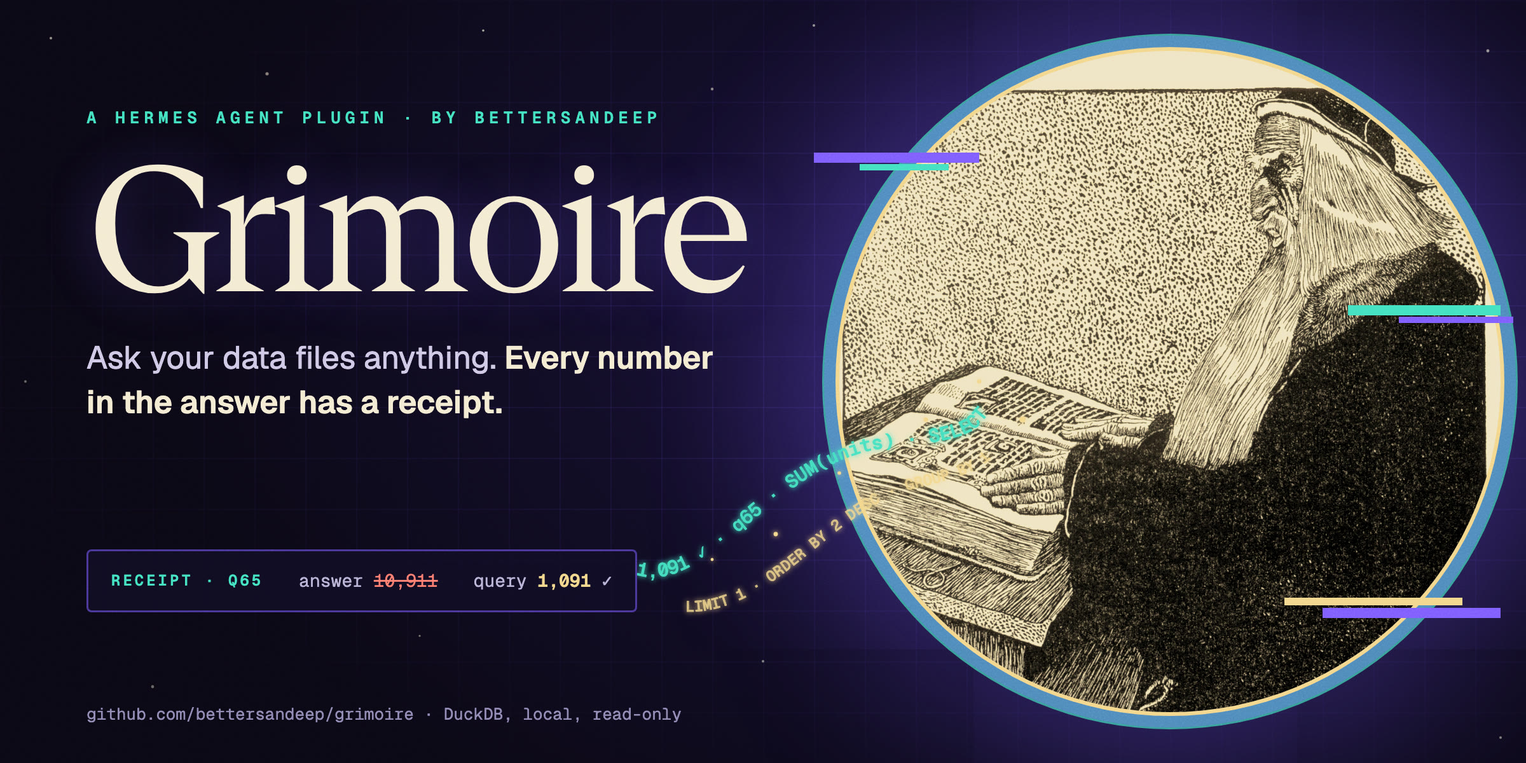
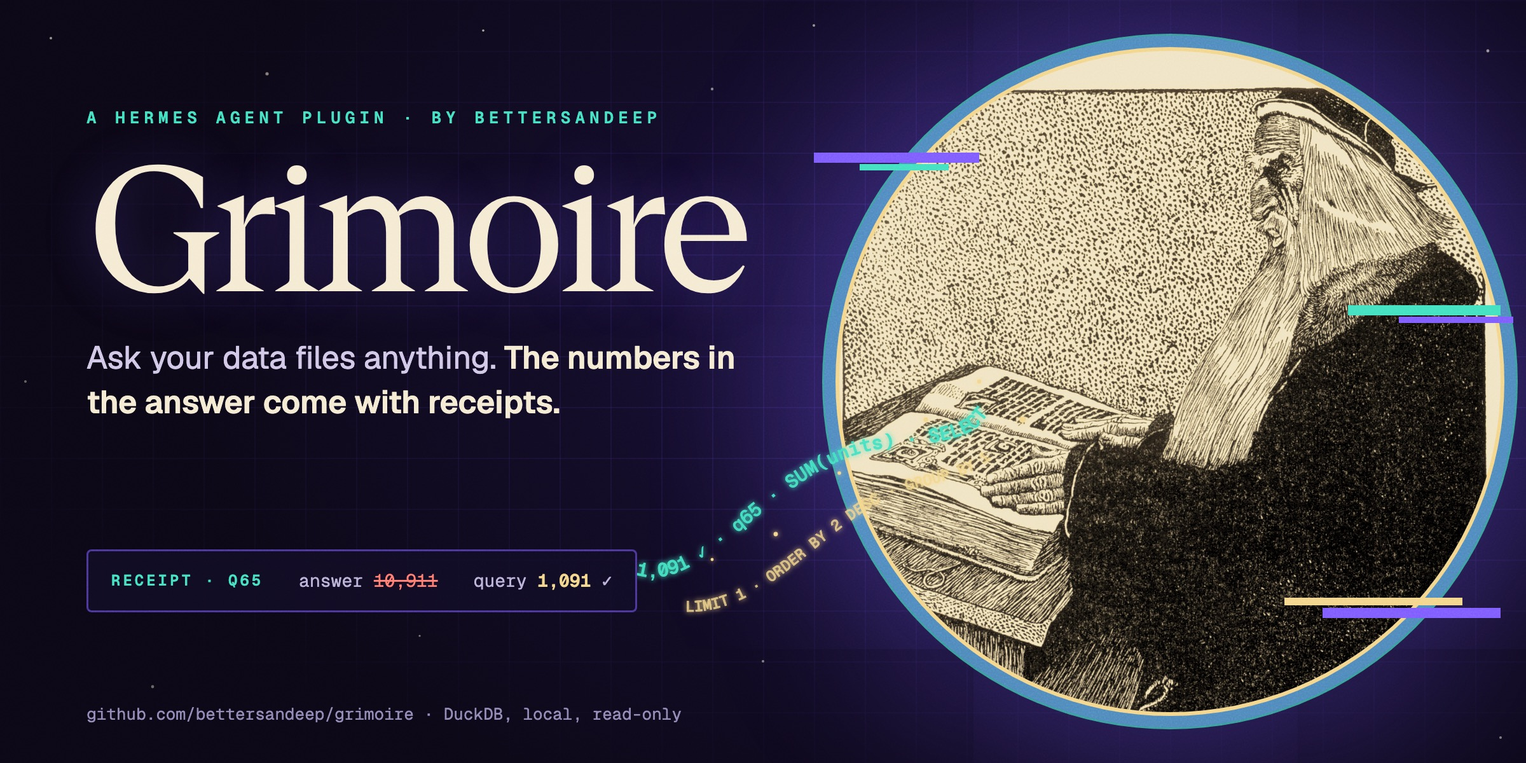
Check years and round factors instead of hiding them; claim only what the check does (#101)
A year or a round factor counts when a result holds it; otherwise the footer names it under Not checked.
check_detail returns one Checked record; footer takes it. The check() wrapper and the power-of-ten
scan are gone. Written dates like 11 November 2026 and May 2026 keep their year out of the claims.

diff --git a/desktop/plugin.js b/desktop/plugin.js
@@ -104,7 +104,7 @@ function Header({ summary, act }) {
   return jsxs('header', { className: 'gr-top', children: [
     jsxs('div', { className: 'gr-brand', children: [
       jsx('span', { className: 'gr-mark', children: jsx(Mark, {}) }),
-      jsxs('div', { children: [jsx('h1', { children: 'Data' }), jsx('p', { children: `Grimoire ${s.version || ''} · every number has a receipt` })] })
+      jsxs('div', { children: [jsx('h1', { children: 'Data' }), jsx('p', { children: `Grimoire ${s.version || ''} · numbers with receipts` })] })
     ] }),
     jsxs('div', { className: 'gr-toggles', children: [
       jsx(Toggle, { label: 'Learning mode', checked: s.learn, hint: 'After data answers: how the answer was made, and a better question',
@@ -138,8 +138,8 @@ function About({ show, act }) {
   if (!show) return null
   return jsxs('section', { className: 'gr-about', 'aria-label': 'What Grimoire does', children: [
     jsxs('div', { className: 'gr-about-text', children: [
-      jsx('b', { children: 'Ask questions about your data files, and check every number' }),
-      jsx('p', { children: 'Name a CSV, JSON, Parquet or SQLite file in any chat. Grimoire answers with a real SQL query and checks each number in the reply against it. It reads your files where they are and never changes them.' }),
+      jsx('b', { children: 'Ask questions about your data files, and check the numbers' }),
+      jsx('p', { children: 'Name a CSV, JSON, Parquet or SQLite file in any chat. Grimoire answers with a real SQL query and flags any number in the reply that no query produced. It reads your files where they are and never changes them.' }),
       jsxs('ul', { children: [
         jsxs('li', { children: [jsx('b', { children: 'Files' }), ' are the files you named in chats. Each gets a ', jsx('b', { children: 'Data health' }), ' score: how far you can trust its numbers. Click the score to see why.'] }),
         jsxs('li', { children: [jsx('b', { children: 'Saved queries' }), ' are the answers: chart, table, the SQL, and how each answer was made. Click ', jsx('b', { children: 'New chart' }), ' to make your own.'] }),

diff --git a/assets/src/banner.html b/assets/src/banner.html
@@ -41,7 +41,7 @@ h1{font:600 138px/0.92 "Geist Serif",serif;letter-spacing:-4px;margin:16px 0 20p
 <div class="left">
   <div class="kicker">A HERMES AGENT PLUGIN · BY BETTERSANDEEP</div>
   <h1>Grimoire</h1>
-  <p class="tag">Ask your data files anything. <b>Every number in the answer has a receipt.</b></p>
+  <p class="tag">Ask your data files anything. <b>The numbers in the answer come with receipts.</b></p>
 </div>
 <div class="slip"><span class="h">RECEIPT · Q65</span><span>answer <span class="bad">10,911</span></span><span>query <span class="ok">1,091</span> ✓</span></div>
 <div class="foot">github.com/bettersandeep/grimoire · DuckDB, local, read-only</div>

diff --git a/verify.py b/verify.py
@@ -8,15 +8,17 @@ Pure functions only; no Hermes or DuckDB imports.
 import bisect
 import math
 import re
+from typing import NamedTuple
 
 _CODE = re.compile(r"```.*?```|`[^`\n]*`", re.S)
 _CITE = re.compile(r"\[\s*q\d+(?:\s*,\s*q\d+)*\s*\]|\bq\d+\b", re.I)
 _DATE = re.compile(r"\b\d{4}-\d{2}(?:-\d{2}(?:[T ]\d{2}:\d{2}(?::\d{2})?)?)?\b|\b\d{1,2}:\d{2}(?::\d{2})?\b")
-# Written dates: "November 11, 2026", "Nov. 3", "11 November 2026". The day is not a claim. Month first needs a year
+# Written dates: "November 11, 2026", "Nov. 3", "11 November 2026", "May 2026". The day and year are not claims. Month first needs a year
 # or punctuation after the day, so "May 12 orders" is still read; month names are capitalised, so "may 12" is too.
 _MONTH = r"(?:Jan(?:uary)?|Feb(?:ruary)?|Mar(?:ch)?|Apr(?:il)?|May|June?|July?|Aug(?:ust)?|Sep(?:t(?:ember)?)?|Oct(?:ober)?|Nov(?:ember)?|Dec(?:ember)?)\.?"
 _DAY = r"(?:[1-9]|[12]\d|3[01])(?:st|nd|rd|th)?"
-_WRITTEN_DATE = re.compile(rf"\b{_MONTH}\s+{_DAY}(?:,?\s+(?:19|20)\d\d\b|(?=[.,;:)!?]|\s*$))|\b{_DAY}\s+{_MONTH}(?![a-z])")
+_WRITTEN_DATE = re.compile(rf"\b{_MONTH}\s+{_DAY}(?:,?\s+(?:19|20)\d\d\b|(?=[.,;:)!?]|\s*$))"
+                           rf"|\b{_DAY}\s+{_MONTH}(?![a-z])(?:,?\s+(?:19|20)\d\d\b)?|\b{_MONTH}\s+(?:19|20)\d\d\b")
 _LIST_MARK = re.compile(r"(?m)^(\s*)\d+[.)](?=\s)")
 _NUM = re.compile(r"(?<![\w.,])\d{1,3}(?:,\d{2,3})+(?:\.\d+)?|(?<![\w.,])\d+(?:\.\d+)?")
 _SUFFIX = re.compile(
@@ -34,7 +36,8 @@ def _blank(match):
 
 
 def extract(text):
-    """Return the numeric claims in text as dicts: raw, value, tol, percent."""
+    """Return the numeric claims in text as dicts: raw, value, tol, percent, and skip: why the number may not be
+    a claim ("looks like a year", "a round factor"), or None."""
     text = _CODE.sub(_blank, text or "")
     for pattern in (_CITE, _DATE, _WRITTEN_DATE):
         text = pattern.sub(_blank, text)
@@ -49,7 +52,7 @@ def extract(text):
         if clock and re.fullmatch(r"\d{1,2}", core) and 1 <= int(core) <= 12:
             hour = int(core) % 12 + (12 if clock.group(1).lower().startswith("p") else 0)
             claims.append({"raw": core + clock.group(0), "value": float(hour), "tol": 0.5, "percent": False,
-                           "at": m.start(), "end": m.end() + clock.end()})
+                           "skip": None, "at": m.start(), "end": m.end() + clock.end()})
             continue  # "6 PM" is the hour 18
         if not suffix and re.match(r"[A-Za-z_\d]", after[:1]):
             continue  # part of a word or id, like 4xx, 2nd, x86
@@ -63,19 +66,16 @@ def extract(text):
             continue  # 309 or more digits: not a claim, and it would overflow later checks
         decimals = len(core.split(".", 1)[1]) if "." in core else 0
         plain_int = decimals == 0 and "," not in core and not unit
-        if plain_int and 1900 <= number <= 2100:
-            continue  # a year
         whole = number == int(number) and "," not in core and not unit
-        if whole and number >= 10 and str(int(number)).strip("0") == "1":
-            # ponytail: powers of ten (100, 1000) are usually unit factors ("÷ 100"); a real
-            # count of exactly 100 is skipped too. Tighten with context if that ever matters.
-            continue
+        skip = ("looks like a year" if plain_int and 1900 <= number <= 2100 else
+                "a round factor" if whole and number >= 10 and str(int(number)).strip("0") == "1" else None)
         mult = _MULT.get(unit, 1.0)
         claims.append({
             "raw": (core + (suffix.group(0) if suffix else "")).strip(),
             "value": number * mult,
             "tol": 0.5 * 10 ** -decimals * mult,
             "percent": unit in ("%", "percent"),
+            "skip": skip,
             # "$29.05M" also matches 29.05 as written: SQL often computes in millions (revenue_musd)
             # not for small whole numbers: "$15M" must not match a count of 15
             "written": number if mult != 1.0 and not (number < 100 and number == int(number)) else None,
@@ -134,6 +134,8 @@ def rises_on_negatives(text, signed):
     text = text or ""
     found = []
     for claim in extract(text):
+        if claim["skip"]:
+            continue  # a year or a round factor is not a size that can rise
         before = text[max(0, claim["at"] - 60):claim["at"]]
         rise = _RISE_BEFORE.search(before)
         if rise and rise.group(1).lower() == "up" and not _UP_LEAD.search(before[:rise.start()]):
@@ -200,16 +202,20 @@ def _pairs(values, ratios):
     return out
 
 
-def check(text, values, ignore=(), totals=()):
-    """(sourced, derived, unsourced) lists of raw strings; see check_detail."""
-    return check_detail(text, values, ignore, totals)[:3]
+class Checked(NamedTuple):
+    """The claims of a reply, as raw strings, by how they trace."""
+    sourced: list    # a tool result holds the number
+    derived: list    # simple arithmetic on sourced numbers gives it
+    unsourced: list  # nothing gives it
+    loose: list      # of derived: only two result values the reply does not show give it, so it can be chance
+    unchecked: list  # a year or a round factor that no result holds, with the reason: "2024 (looks like a year)"
 
 
 def check_detail(text, values, ignore=(), totals=()):
-    """Split the claims in text into (sourced, derived, unsourced, loose) lists of raw strings.
-    loose: derived claims that only match by combining two result values the reply does not show.
-    With a few hundred result values there are about 270k such combinations, so an invented number
-    can match by chance; the verdict then asks the reader to check them.
+    """Sort the claims in text into a Checked. loose: with a few hundred result values there are about
+    270k pairs, so an invented number can match by chance; the verdict then asks the reader to check them.
+    A year or a round factor counts only when a result holds it: "÷ 100" or "in 2024" may not be a claim,
+    so arithmetic that happens to give it proves nothing. It is named as not checked, never flagged.
 
     values: numbers from tool results. ignore: raw strings to skip (numbers the user typed).
     totals: column totals of cited results. A claim is "derived" when simple arithmetic on
@@ -224,11 +230,7 @@ def check_detail(text, values, ignore=(), totals=()):
         ok = _matches(pool, claim["value"], claim["tol"], claim["percent"]) or (
             claim.get("written") is not None and _near(pool, claim["written"], claim["written_tol"]))
         (sourced if ok else rest).append(claim)
-    shown = {c["value"] for c in claims if c in sourced}
-    # powers of ten are skipped as claims, but "964 of 1000 rows" still uses 1000 as a sourced number
-    shown |= {float(m) for m in re.findall(r"(?<![\w.,])10+(?![\w,]|\.\d)", _CODE.sub(_blank, text or ""))
-              if _near(pool, float(m), 0.5)}
-    shown = sorted(shown)
+    shown = sorted({c["value"] for c in claims if c in sourced})
     sums = sorted(_pairs(shown, ratios=False))
     # ponytail: pairs of pool values only while the pool is small (O(n^2)); cited results are usually small.
     strong = set(shown) | {abs(t) for t in totals}
@@ -238,8 +240,11 @@ def check_detail(text, values, ignore=(), totals=()):
         units |= {v * f for v in pool} | {v / f for v in pool}
     wide, wide_pct = sorted(other | units | _triples(shown)), sorted(other)
     hidden = sorted(_pairs(sorted(strong | set(pool)), ratios=True)) if len(pool) <= MAX_PAIR_POOL else []
-    derived, unsourced, loose = [], [], []
+    derived, unsourced, loose, unchecked = [], [], [], []
     for claim in rest:
+        if claim["skip"]:
+            unchecked.append(f"{claim['raw']} ({claim['skip']})")
+            continue
         # ponytail: a small whole number (under 100) is easy to hit by chance, so it may only be a sum or
         # difference of two numbers the reply shows; bigger or decimal numbers may also be a unit change,
         # ratio, share or column total.
@@ -251,23 +256,25 @@ def check_detail(text, values, ignore=(), totals=()):
             ok = True
             loose.append(claim["raw"])
         (derived if ok else unsourced).append(claim["raw"])
-    return [c["raw"] for c in sourced], derived, unsourced, loose
+    return Checked([c["raw"] for c in sourced], derived, unsourced, loose, unchecked)
 
 
-def footer(sourced, unsourced, derived=(), loose=(), uncited=()):
-    """A short plain-text footer, or "" when the reply has no numeric claims.
+def footer(checked, uncited=()):
+    """A short plain-text footer, or "" when the reply has no number to check.
     Not counted as tracing: loose numbers (matched only by combining two hidden result values) and uncited
     numbers (found only in a result of the chat that the reply does not cite)."""
+    sourced, derived, unsourced, loose, unchecked = checked
+    join = lambda items: " · ".join(dict.fromkeys(items))
     derived = [d for d in derived if d not in loose]
     traced = len(sourced) + len(derived)
     total = traced + len(unsourced) + len(loose) + len(uncited)
     if not total:
         return ""
-    how = f" ({len(derived)} by simple arithmetic: {' · '.join(dict.fromkeys(derived))})" if derived else ""
+    how = f" ({len(derived)} by simple arithmetic: {join(derived)})" if derived else ""
+    skipped = f" Not checked: {join(unchecked)}." if unchecked else ""
     if not (unsourced or loose or uncited):
         what = "the number traces" if total == 1 else f"all {total} numbers trace"
-        return f"\n\n---\nGrimoire check: {what} to query results{how}."
+        return f"\n\n---\nGrimoire check: {what} to query results{how}.{skipped}"
     why, which = (("No source query for", unsourced) if unsourced else
                   ("Check how these were worked out", loose) if loose else ("Not from a cited query", uncited))
-    return (f"\n\n---\nGrimoire check: {traced} of {total} numbers trace to query results{how}. "
-            f"{why}: {' · '.join(dict.fromkeys(which))}")
+    return f"\n\n---\nGrimoire check: {traced} of {total} numbers trace to query results{how}. {why}: {join(which)}.{skipped}"

diff --git a/selftest.py b/selftest.py
@@ -39,10 +39,15 @@ REAL_RESULTS = [
 ]
 
 
+def check3(text, values, **kw):
+    """(sourced, derived, unsourced) of a reply: the short form most tests compare."""
+    return tuple(verify.check_detail(text, values, **kw)[:3])
+
+
 def test_verify():
     # precision, suffixes, percent, ignored spans
     vals = [76840174.17, 14.2, 0.383, 2436]
-    chk = lambda text, v=vals, **kw: verify.check(text, v, **kw)
+    chk = lambda text, v=vals, **kw: check3(text, v, **kw)
     assert chk("North made 76.8M") == (["76.8M"], [], [])
     assert chk("North made $76,840,174.17") == (["76,840,174.17"], [], [])
     assert chk("North made ₹76,840,174.17") == (["76,840,174.17"], [], [])  # other currency symbols work too
@@ -50,15 +55,21 @@ def test_verify():
     assert chk("38.3% are empty") == (["38.3%"], [], [])  # matches 0.383
     assert chk("2,436 rows") == (["2,436"], [], [])
     assert chk("2,437 rows") == ([], [], ["2,437"])
-    skipped = ("In 2026 on 2026-01-03 at 10:30, see [q7] and q12, `SELECT 42`, divide by 100 or 100.0, "
-               "April (2026-04), 4xx codes.\n1. first")
+    skipped = ("On 2026-01-03 at 10:30, see [q7] and q12, `SELECT 42`, April (2026-04), 4xx codes.\n1. first")
     assert chk(skipped) == ([], [], []), verify.extract(skipped)
     assert chk("top 3 regions", ignore=["3"]) == ([], [], [])
+    # a year or a round factor is still read: it traces when a result holds it, else it is named as not checked
+    hidden = verify.check_detail("In 2026, divide by 100 or 100.0; 2,436 rows", vals)
+    assert hidden.sourced == ["2,436"] and hidden.unsourced == [], hidden
+    assert hidden.unchecked == ["2026 (looks like a year)", "100 (a round factor)", "100.0 (a round factor)"], hidden
+    assert "Not checked: 2026 (looks like a year) · 100 (a round factor)" in verify.footer(hidden), verify.footer(hidden)
+    assert check3("2024 orders and 100 returns", [2024, 100]) == (["2024", "100"], [], [])
+    assert verify.footer(verify.check_detail("Since 2019.", vals)) == ""  # no number to check: no footer
     # a written date is not a claim: the day of "November 11, 2026" once made a right answer "needs revision"
     for written in ("but today is November 11, 2026.", "on 11 November 2026", "since Nov. 3, 2026", "until Sept 30."):
         assert verify.extract(written) == [], (written, verify.extract(written))
     assert [c["raw"] for c in verify.extract("May 12 orders were late, and may 7 more")] == ["12", "7"]
-    assert verify.footer([], []) == ""
+    assert verify.footer(verify.Checked([], [], [], [], [])) == ""
     # derived numbers: simple arithmetic on shown numbers, unit changes, column totals
     v = [50000, 1996, 189759.34, 72188507.98, 4651666.19]
     assert chk("50,000 rows, 1,996 empty, so 48,004 kept", v) == (["50,000", "1,996"], ["48,004"], [])
@@ -70,13 +81,14 @@ def test_verify():
     assert chk(three, [58904.49, 5893.35, 1965.24, 49079.24]) == (["58,904.49", "5,893.35", "1,965.24"], ["66,763.08"], [])
     assert chk(three.replace("66,763.08", "66,763.99"), [58904.49, 5893.35, 1965.24])[2] == ["66,763.99"]
     assert chk(three.replace("66,763.08", "$66,763.08M"), [58904.49, 5893.35, 1965.24])[1] == ["66,763.08M"]
-    assert chk("964 of 1000 rows have an amount (36 skipped)", [1000, 964]) == (["964"], ["36"], [])
+    assert chk("964 of 1000 rows have an amount (36 skipped)", [1000, 964]) == (["964", "1000"], ["36"], [])
     assert chk("about 2,000 empty", v) == ([], [], ["2,000"])  # rounded: still flagged
     # the real reply: the derived total is now traced by arithmetic; the invented count is still flagged
-    sourced, derived, unsourced = verify.check(REAL_REPLY, verify.numeric_values(REAL_RESULTS))
-    assert unsourced == ["5"], (unsourced, derived)
-    assert derived == ["76,840,174.17"] and len(sourced) == 9, (sourced, derived)
-    assert "1 by simple arithmetic: 76,840,174.17" in verify.footer(sourced, unsourced, derived)
+    real = verify.check_detail(REAL_REPLY, verify.numeric_values(REAL_RESULTS))
+    assert real.unsourced == ["5"], real
+    assert real.derived == ["76,840,174.17"] and len(real.sourced) == 9, real
+    assert "1 by simple arithmetic: 76,840,174.17" in verify.footer(real._replace(loose=[]))
+    assert verify.footer(real).endswith("No source query for: 5. Not checked: 100 (a round factor)."), verify.footer(real)
 
 
 def test_data_quality(tmp, db):
@@ -654,10 +666,10 @@ def test_glob_and_names(tmp, db):
     # numbers inside names and zero-padded codes are not claims; an invented count still is
     text = "6 files: yellow_2024-05.parquet has 3,723,833 rows (2024-01 through 06); 5 rows are odd."
     assert [c["raw"] for c in verify.extract(text)] == ["6", "3,723,833", "5"], verify.extract(text)
-    assert verify.check(text, [3723833, 6])[2] == ["5"]
+    assert check3(text, [3723833, 6])[2] == ["5"]
     # clock times: "6 PM" is the hour 18, so it traces to 18; a wrong hour is still flagged
-    assert verify.check("Hour 18 (6 PM) has 1,456,754 trips", [18, 1456754]) == (["18", "6 PM", "1,456,754"], [], [])
-    assert verify.check("busiest at 7 pm", [18])[2] == ["7 pm"] and verify.check("at 12 a.m.", [0])[0] == ["12 a.m."]
+    assert check3("Hour 18 (6 PM) has 1,456,754 trips", [18, 1456754]) == (["18", "6 PM", "1,456,754"], [], [])
+    assert check3("busiest at 7 pm", [18])[2] == ["7 pm"] and check3("at 12 a.m.", [0])[0] == ["12 a.m."]
 
 
 def test_recipes(tmp, db):
@@ -797,17 +809,17 @@ def test_review_fixes(tmp, db):
                 assert "private app data" in str(exc), exc
     # C-5: numbers that only match two hidden result values get a caveat, not "ready to share"
     random_vals = [round(10 + 37.3 * i % 4990, 2) for i in range(150)] + list(range(1, 51))
-    s_, d_, u_, loose = verify.check_detail("Growth was 23.7%, the share 41.2% and the average 18.4.", random_vals)
+    s_, d_, u_, loose, _ = verify.check_detail("Growth was 23.7%, the share 41.2% and the average 18.4.", random_vals)
     assert not u_ and {"23.7%", "41.2%"} <= set(loose), (s_, d_, u_, loose)  # 18.4 is 1840 / 100 here: a unit change
     assert pkg.audit.review([], None, [], verify.caveats(loose))[0] == "share with caveats"
     # SQL that computes millions (29.05) and a reply that writes "$29.05M": the number traces as written
     musd = verify.numeric_values([["North", 29.05, 15025], ["north ", 3.04, 1609], ["N. Region", 0.94, 493]])
-    s_, d_, u_ = verify.check("North $29.05M, north $3.04M, N. Region $0.94M; $33.03M in all [q1].", musd)
+    s_, d_, u_ = check3("North $29.05M, north $3.04M, N. Region $0.94M; $33.03M in all [q1].", musd)
     assert s_ == ["29.05M", "3.04M", "0.94M"] and d_ == ["33.03M"] and not u_, (s_, d_, u_)  # sum of three shown
     # "$15M" must not match a count of 15; "all numbers trace" never counts loose matches
-    s_, d_, u_ = verify.check("North brought in $15M [q1].", verify.numeric_values([["North", 1200, 15]]))
+    s_, d_, u_ = check3("North brought in $15M [q1].", verify.numeric_values([["North", 1200, 15]]))
     assert u_ == ["15M"], (s_, d_, u_)
-    assert "Check how these were worked out: 23.7%" in verify.footer([], [], ["23.7%"], ["23.7%"])
+    assert "Check how these were worked out: 23.7%" in verify.footer(verify.Checked([], ["23.7%"], [], ["23.7%"], []))
     # a merge that reverses an old one wins
     store.save_merge(db, "rev", "rev", "r", ["North"], "Northern")
     store.save_merge(db, "rev", "rev", "r", ["Northern"], "North")

diff --git a/tools.py b/tools.py
@@ -207,13 +207,14 @@ def _number_check(text, values, file_values, ignore, cited_queries, last_qid, db
     # (they have no id). Every other result of the chat is too wide a net: one list of 200 order ids
     # "sources" any invented count up to 200. Such a number is not counted as traced.
     pool = file_values + cited_values if cited_queries else values
-    sourced, derived, unsourced, loose = verify.check_detail(text, pool, ignore=ignore, totals=totals)
+    checked = verify.check_detail(text, pool, ignore=ignore, totals=totals)
     uncited = []
-    if cited_queries and unsourced:
-        nowhere = verify.check_detail(text, values, ignore=ignore, totals=totals)[2]
-        uncited = [n for n in unsourced if n not in nowhere]
-        unsourced = [n for n in unsourced if n in nowhere]
-    out = verify.footer(sourced, unsourced, derived, loose, uncited)
+    if cited_queries and checked.unsourced:
+        nowhere = verify.check_detail(text, values, ignore=ignore, totals=totals).unsourced
+        uncited = [n for n in checked.unsourced if n not in nowhere]
+        checked = checked._replace(unsourced=[n for n in checked.unsourced if n in nowhere])
+    unsourced, loose = checked.unsourced, checked.loose
+    out = verify.footer(checked, uncited)
     last = store.get_query(db, last_qid) if out and last_qid and not cited_queries else None
     audited = cited_queries or ([last] if last else [])
     if out and (audited or missing):
@@ -223,7 +224,7 @@ def _number_check(text, values, file_values, ignore, cited_queries, last_qid, db
             out = out.rstrip(".") + f". Verdict: {judged}." + "".join("\n" + line for line in lines)
         except Exception:
             pass  # the audit is extra; never lose the number check because of it
-    return out, sourced
+    return out, checked.sourced
 
 
 def _prediction(db, session_id, text, sourced):

diff --git a/README.md b/README.md
@@ -1,15 +1,15 @@
 # Grimoire
 
-![Grimoire, a Hermes Agent plugin by bettersandeep: every number in the answer has a receipt.](assets/banner.jpg)
+![Grimoire, a Hermes Agent plugin by bettersandeep: the numbers in the answer come with receipts.](assets/banner.jpg)
 
 Ask Hermes about your data files, and get answers that are fast, cheap and checked.
-Every number has a receipt.
+Each number comes with a receipt: the query that produced it.
 
 - **Fast on big files:** DuckDB answers with one SQL query, so the model never reads your rows.
   100 million rows in a 5 GB CSV: 12 s instead of 182 s, same question, same model (Claude Sonnet 5.5).
 - **Fewer tokens:** about 35,500 input tokens per answer on Claude Haiku, Sonnet and Opus 5.5, with 2 model calls.
   That is 17% to 56% fewer than plain Hermes in 15 of 18 benchmark tests.
-- **Checked:** after each reply, Grimoire checks every number against the query results and flags the ones with no source.
+- **Checked:** after each reply, Grimoire flags any number that no query produced, and names the numbers it cannot check.
 - **Study your data with 0 tokens:** a Data page in Hermes Desktop with ten chart views, pivots, drill-down and a health score for each file.
   Plugin code makes all of it, with no model call.
 - **Learn as you go, 0 tokens:** learning mode shows how each answer was made, step by step, in plain words or SQL.
@@ -63,17 +63,18 @@ Under the answer, Grimoire adds its check:
 
 | Line | Means |
 |---|---|
-| `Grimoire check: all 2 numbers trace to query results` | Every number in the reply comes from a query result, or from simple arithmetic on numbers the reply shows |
+| `Grimoire check: all 2 numbers trace to query results` | Each number the check reads comes from a query result, or from simple arithmetic on numbers the reply shows |
 | `No source query for: 2,000` | The model wrote a number that no query produced, for example a rounded or made-up count |
 | `Check how these were worked out: …` | The number only matches by combining two values the reply does not show, so it may be a coincidence |
 | `Not from a cited query: 137` | The number is in another result of this chat, but not in a query the answer cites, so it may be a coincidence |
+| `Not checked: 2024 (looks like a year)` | A year or a round factor such as 100 that no result holds; it may not be a claim, so it is named, not flagged |
 | `Assumes: left out 1,996 of 50,000 rows (empty amount)` | What the query's filters dropped |
 | `Watch out: 'North' / 'north ' / 'N. Region' look like one value…` | A common mistake in the method or the data |
 | `Watch out: 12.5% is written as a rise, but the result is negative` | The answer says "grew" or "up", and the query result is below zero |
 | `Verdict: ready to share`, `share with caveats`, `needs revision` | The summary of the check |
 
 A real example: on a free model, the model once forgot to divide cents by 100 and reported North at $2,905M.
-Query q42 said $29.05M, and Grimoire flagged every number in the reply.
+Query q42 said $29.05M, and Grimoire flagged each wrong number in the reply.
 In the benchmark, plain Hermes on Claude Opus 5.5 made the opposite mistake: it divided by 100 twice, so every region total was 100 times too small.
 
 To see the SQL and result behind any number, type `/grimoire sql q3`.
@@ -257,6 +258,7 @@ The model gets these tools: `grimoire_attach`, `grimoire_profile`, `grimoire_que
 ## Known limits
 
 - The check reads digits only. Number words ("three") and text claims (names, rankings) are not checked.
+- Years and round factors (100, 1000) count only when a result holds them; the others are listed as not checked.
 - A small number can match a query value by chance; numbers that only match by combining hidden values are marked for a check.
 - Numbers from two arithmetic steps, or from a query the answer does not cite, are flagged even when right.
 - An answer that cites no query is checked against every result of the chat, which is a wider net.
